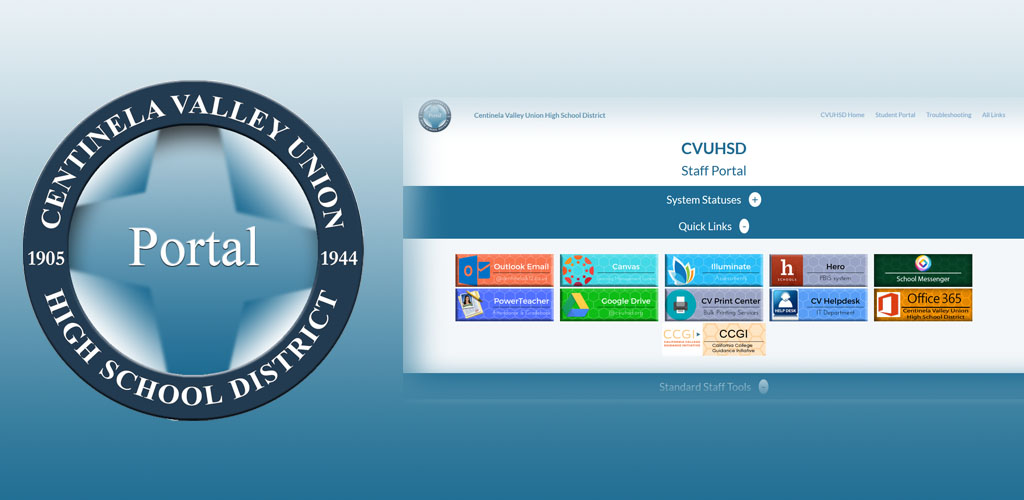
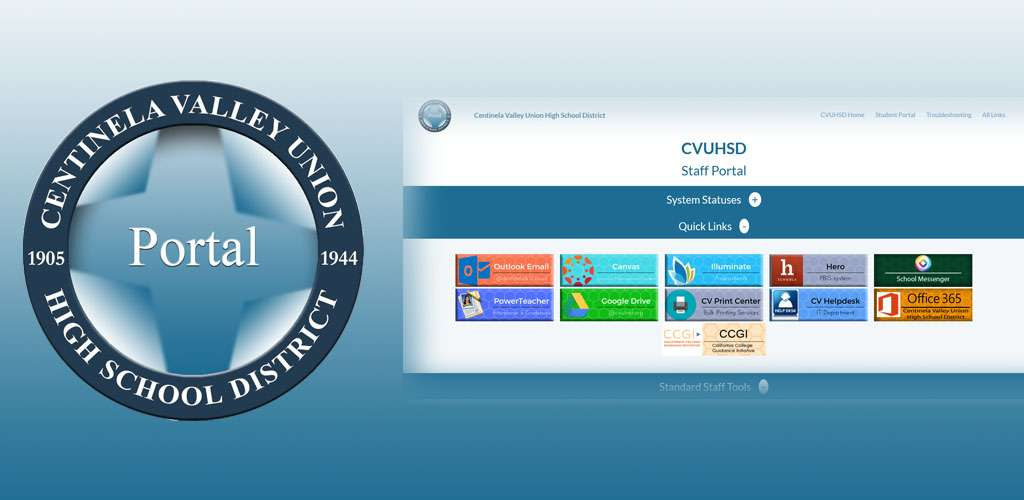
Compress images and upgrade to Expo SDK 33

diff --git a/src/components/App.js b/src/components/App.js
@@ -1,7 +1,7 @@
 import React, { Component, Fragment } from 'react';
 import { StyleSheet, View, ScrollView, Dimensions, StatusBar, Text, Button, Platform } from 'react-native';
 //import { SafeAreaView } from 'react-native';
-import { AuthSession } from 'expo';
+import { AuthSession, Linking } from 'expo';
 
 import { Updates } from 'expo';
 
@@ -70,17 +70,21 @@ class App extends Component {
     };
 
     handlePressAsync = async () => {
+        console.log("handlePressAsync()");
         let redirectUrl = AuthSession.getRedirectUrl();
+        //let redirectUrl = Linking.makeUrl();
         let result = await AuthSession.startAsync({
           authUrl:
             `https://sso.centinela.k12.ca.us/adfs/ls/?wa=wsignin1.0&wtrealm=${encodeURIComponent(redirectUrl)}`
         });
+        console.log(`\n\nhttps://sso.centinela.k12.ca.us/adfs/ls/?wa=wsignin1.0&wtrealm=${encodeURIComponent(redirectUrl)}`);
         console.log("\nRedirect URL:\t" + redirectUrl + "\n");
         this.setState({ result });
         console.log("\nRedirect URL:\t" + redirectUrl + "\n"
-         + "Result:\t" + JSON.stringify(result) + ".." + "\t\n");
-
-         console.log(`\n\nhttps://sso.centinela.k12.ca.us/adfs/ls/?wa=wsignin1.0&wtrealm=${encodeURIComponent(redirectUrl)}`);
+         + "Result:\t" + JSON.stringify(result) + ".." + "\t\n" 
+         + "\n\n" + "results.params:\t" + results.params);
+        //Link:
+        //  https://auth.expo.io/@almondbro/CVUHSD-Portal-Mobile
       };
 
     render() {
